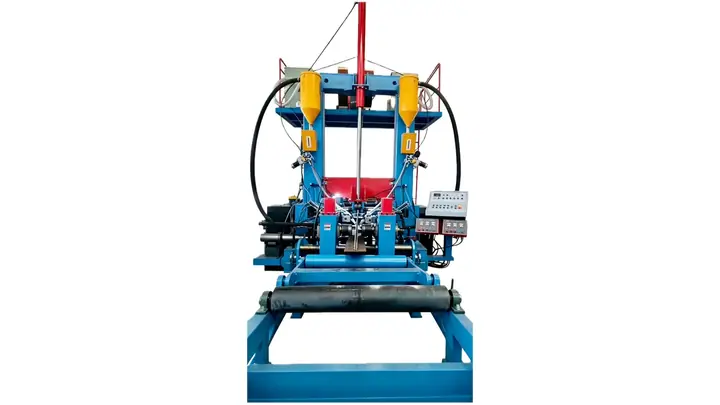
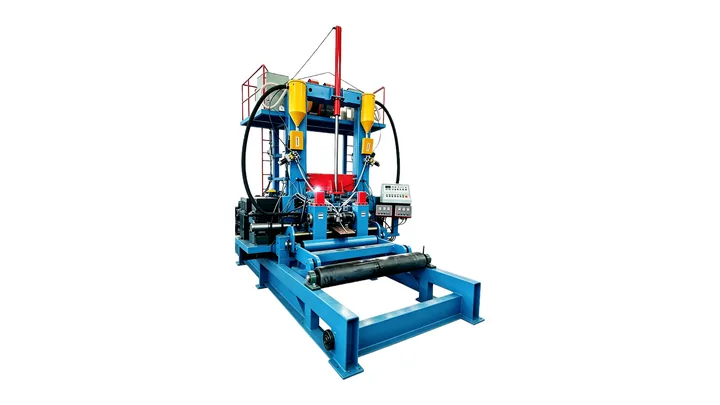
Revert popup galleries to original product images; card thumbnails rebuilt from those same images

Changed region(s): [[0.3056, 0.0, 0.6722, 1.0]]

diff --git a/welding-machines.html b/welding-machines.html
@@ -100,7 +100,7 @@
 <div class="product-grid">
 <!-- 产品卡片1 -->
 <div class="product-card"
-data-gallery="image/machines/baghouse-dust-collector-welding-machine/hero.webp,image/welding-cutting/welding-machines/Baghouse-Dust-Collector-Welding-Machine.png"
+data-gallery="image/welding-cutting/welding-machines/Baghouse-Dust-Collector-Welding-Machine.png"
 data-title="Baghouse Dust Collector Welding Machine"
 data-detail="machines/baghouse-dust-collector-welding-machine/"
 data-desc="This bag cage welding machine is designed for producing filter bag cages used in dust collection systems. It completes cage body, end cap, and bottom cap welding in one operation, boosting efficiency and reducing labor costs.&#10;
@@ -122,7 +122,7 @@ alt="Baghouse Dust Collector Welding Machine">
 
 <!-- 产品卡片2 -->
 <div class="product-card"
-data-gallery="image/machines/automatic-ring-forming-welding-machine/hero.webp,image/welding-cutting/welding-machines/Automatic-Ring-Forming-and-Welding-Machine.png"
+data-gallery="image/welding-cutting/welding-machines/Automatic-Ring-Forming-and-Welding-Machine.png"
 data-title="Automatic Ring Forming & Welding Machine"
 data-detail="machines/automatic-ring-forming-welding-machine/"
 data-desc="This integrated ring forming and welding machine operates through a closed-loop servo-controlled feeding system. Two direct-drive motors feed the wire forward, while a rotary encoder and servo motor encoder work together to monitor and adjust position in real time.&#10;
@@ -143,7 +143,7 @@ alt="Automatic Ring Forming & Welding Machine">
 
 <!-- 产品卡片3 -->
 <div class="product-card"
-data-gallery="image/machines/cobot-collaborative-handling-robot/hero.webp,image/welding-cutting/welding-machines/Cobot-Collaborative-Handling-Robot.png"
+data-gallery="image/welding-cutting/welding-machines/Cobot-Collaborative-Handling-Robot.png"
 data-title="Cobot - Collaborative / Handling Robot"
 data-detail="machines/cobot-collaborative-handling-robot/"
 data-desc="Designed for intuitive operation, this collaborative robot features a drag-and-teach function for quick repositioning around the welding point. The end manipulator enables rapid programming without conventional instruction, using a rocker to move the welding torch in six directions while recording points and commands directly.&#10;
@@ -164,7 +164,7 @@ alt="Cobot - Collaborative / Handling Robot">
 
 <!-- 产品卡片4 -->
 <div class="product-card"
-data-gallery="image/machines/copper-aluminum-tube-butt-welding-machine/hero.webp,image/welding-cutting/welding-machines/Copper-Aluminum-Tube-Butt-Welding-Machine.png,image/welding-cutting/welding-machines/Copper-Aluminum-Tube-Butt-Welding-Machine-Sample.png"
+data-gallery="image/welding-cutting/welding-machines/Copper-Aluminum-Tube-Butt-Welding-Machine.png,image/welding-cutting/welding-machines/Copper-Aluminum-Tube-Butt-Welding-Machine-Sample.png"
 data-title="Copper-Aluminum Tube Butt Welding Machine"
 data-detail="machines/copper-aluminum-tube-butt-welding-machine/"
 data-desc="This butt welding machine is specifically engineered for the reliable joining of copper tubes to aluminum tubes. It serves as a direct, high-efficiency replacement for conventional high-voltage flash butt welding machines and brazing equipment. &#10;
@@ -185,7 +185,7 @@ alt="Copper-Aluminum Tube Butt Welding Machine">
 
 <!-- 产品卡片5 -->
 <div class="product-card"
-data-gallery="image/machines/fronius-welding-machine/hero.webp,image/welding-cutting/welding-machines/Fronius-Welding-Machine.png"
+data-gallery="image/welding-cutting/welding-machines/Fronius-Welding-Machine.png"
 data-title="Fronius Welding Machine"
 data-detail="machines/fronius-welding-machine/"
 data-desc="Fronius’s all-new intelligent welding platform has been redesigned from the ground up, delivering significant optimizations in welding performance, the human-machine interface, and ease of operation. &#10;
@@ -206,7 +206,7 @@ alt="Fronius Welding Machine">
 
 <!-- 产品卡片6 -->
 <div class="product-card"
-data-gallery="image/welding-cutting/welding-machines/Turntable-Type-Copper-Manifold-Brazing-Machine.png,image/machines/turntable-type-copper-manifold-brazing-machine/hero.webp"
+data-gallery="image/welding-cutting/welding-machines/Turntable-Type-Copper-Manifold-Brazing-Machine.png"
 data-title="Turntable-Type Copper Manifold Brazing Machine"
 data-detail="machines/turntable-type-copper-manifold-brazing-machine/"
 data-desc="This turntable brazing machine is specially built for copper manifold brazing. It replaces traditional flash butt welding and brazing equipment, producing stable joints with low thermal impact, less oxidation and lower power consumption for dissimilar metal tube connections.">
@@ -226,7 +226,7 @@ alt="Turntable-Type Copper Manifold Brazing Machine">
 
 <!-- 产品卡片7 -->
 <div class="product-card"
-data-gallery="image/machines/oxyhydrogen-welding-machine/hero.webp,image/welding-cutting/welding-machines/Oxyhydrogen-Welding-Machine.png"
+data-gallery="image/welding-cutting/welding-machines/Oxyhydrogen-Welding-Machine.png"
 data-title="Oxyhydrogen Welding Machine"
 data-detail="machines/oxyhydrogen-welding-machine/"
 data-desc="The water-powered hydrogen-oxygen generator utilizes an aqueous solution of electrolytic powder (potassium hydroxide) as the electrolyte. Based on the principle of water electrolysis, it produces hydrogen as the fuel gas and oxygen as the combustion-supporting gas. &#10;
@@ -247,7 +247,7 @@ alt="Oxyhydrogen Welding Machine">
 
 <!-- 产品卡片8 -->
 <div class="product-card"
-data-gallery="image/machines/electron-beam-welding-machine/hero.webp,image/welding-cutting/welding-machines/Electron-Beam-Welding-Machine.png"
+data-gallery="image/welding-cutting/welding-machines/Electron-Beam-Welding-Machine.png"
 data-title="Electron Beam Welding Machine"
 data-detail="machines/electron-beam-welding-machine/"
 data-desc="High-vacuum electron beam welding machine with a 6 kW triode gun and 0-60 kV accelerating voltage. Welds up to 20 mm of stainless steel in a single pass at a depth-to-width ratio above 13:1, with a narrow heat-affected zone and no oxidation. 300x300x300 mm chamber, horizontal rotary table 0-30 rpm with pneumatic tailstock, vertical rotary table 0-50 rpm with three-jaw chuck, chamber pump-down under 150 s and OMRON PLC touch-screen control. &#10;
@@ -268,7 +268,7 @@ alt="Electron Beam Welding Machine">
 
 <!-- 产品卡片9 -->
 <div class="product-card"
-data-gallery="image/machines/3-in-1-welding-station-for-h-beam/hero.webp,image/welding-cutting/welding-machines/3-in-1-Welding-Station-for-H-Beam.png"
+data-gallery="image/welding-cutting/welding-machines/3-in-1-Welding-Station-for-H-Beam.png"
 data-title="3 in 1 Welding Station for H Beam"
 data-detail="machines/3-in-1-welding-station-for-h-beam/"
 data-desc="H-beam integrated welding station (assembling + welding + straightening) combines three functions—fit-up, welding, and straightening of the web and flange—into one machine. This integration improves efficiency, reduces equipment and labor costs, and saves factory space. The station is an ideal solution for producing H-beams or T-beams. &#10;
@@ -292,7 +292,7 @@ alt="3 in 1 Welding Station for H Beam">
 
 <!-- 产品卡片10 -->
 <div class="product-card"
-data-gallery="image/machines/h-beam-horizontal-assembly-and-welding-production-line/hero.webp,image/welding-cutting/welding-machines/H-beam-Horizontal-Assembly-and-Welding-Production-Line.png"
+data-gallery="image/welding-cutting/welding-machines/H-beam-Horizontal-Assembly-and-Welding-Production-Line.png"
 data-title="H beam Horizontal Assembly and Welding Production Line"
 data-detail="machines/h-beam-horizontal-assembly-and-welding-production-line/"
 data-desc="Horizontal type H-beam production line is a special welding line for assembling and welding H-beam. Compared with common H-beam vertical production line (first assembling to T type, then welding H-type), it has higher production efficiency and less welding deformation, and is especially suitable for light duty H-beam welding. &#10;
@@ -313,7 +313,7 @@ alt="H beam Horizontal Assembly and Welding Production Line">
 
 <!-- 产品卡片11 -->
 <div class="product-card"
-data-gallery="image/machines/dual-station-robotic-laser-welding-workstation/hero.webp,image/welding-cutting/welding-machines/Dual-Station-Robotic-Laser-Welding-Workstation.png"
+data-gallery="image/welding-cutting/welding-machines/Dual-Station-Robotic-Laser-Welding-Workstation.png"
 data-title="Dual Station Robotic Laser Welding Workstation"
 data-detail="machines/dual-station-robotic-laser-welding-workstation/"
 data-desc="This robotic laser welding workstation delivers automated high‑precision welding for metal component production. Built around a six‑axis articulated robot arm, it provides generous working reach and excellent positional repeatability to guarantee stable, consistent weld quality.&#10;
@@ -335,7 +335,7 @@ alt="Dual Station Robotic Laser Welding Workstation">
 
 <!-- 产品卡片12 -->
 <div class="product-card"
-data-gallery="image/machines/air-conditioner-heat-exchanger-welding-machine/hero.webp,image/welding-cutting/welding-machines/Air-Conditioner-Heat-Exchanger-Welding-Machine.png"
+data-gallery="image/welding-cutting/welding-machines/Air-Conditioner-Heat-Exchanger-Welding-Machine.png"
 data-title="Air Conditioner Heat Exchanger Welding Machine"
 data-detail="machines/air-conditioner-heat-exchanger-welding-machine/"
 data-desc="Composition of the equipment: The equipment consists of a conveyor belt carrying the workpiece, a gas mixer, a combustion head, and a fuselage, a gas source control box, a workpiece sliding guardrail, and a water cooling system supporting the lifting and angle adjustment of the combustion head. &#10;
